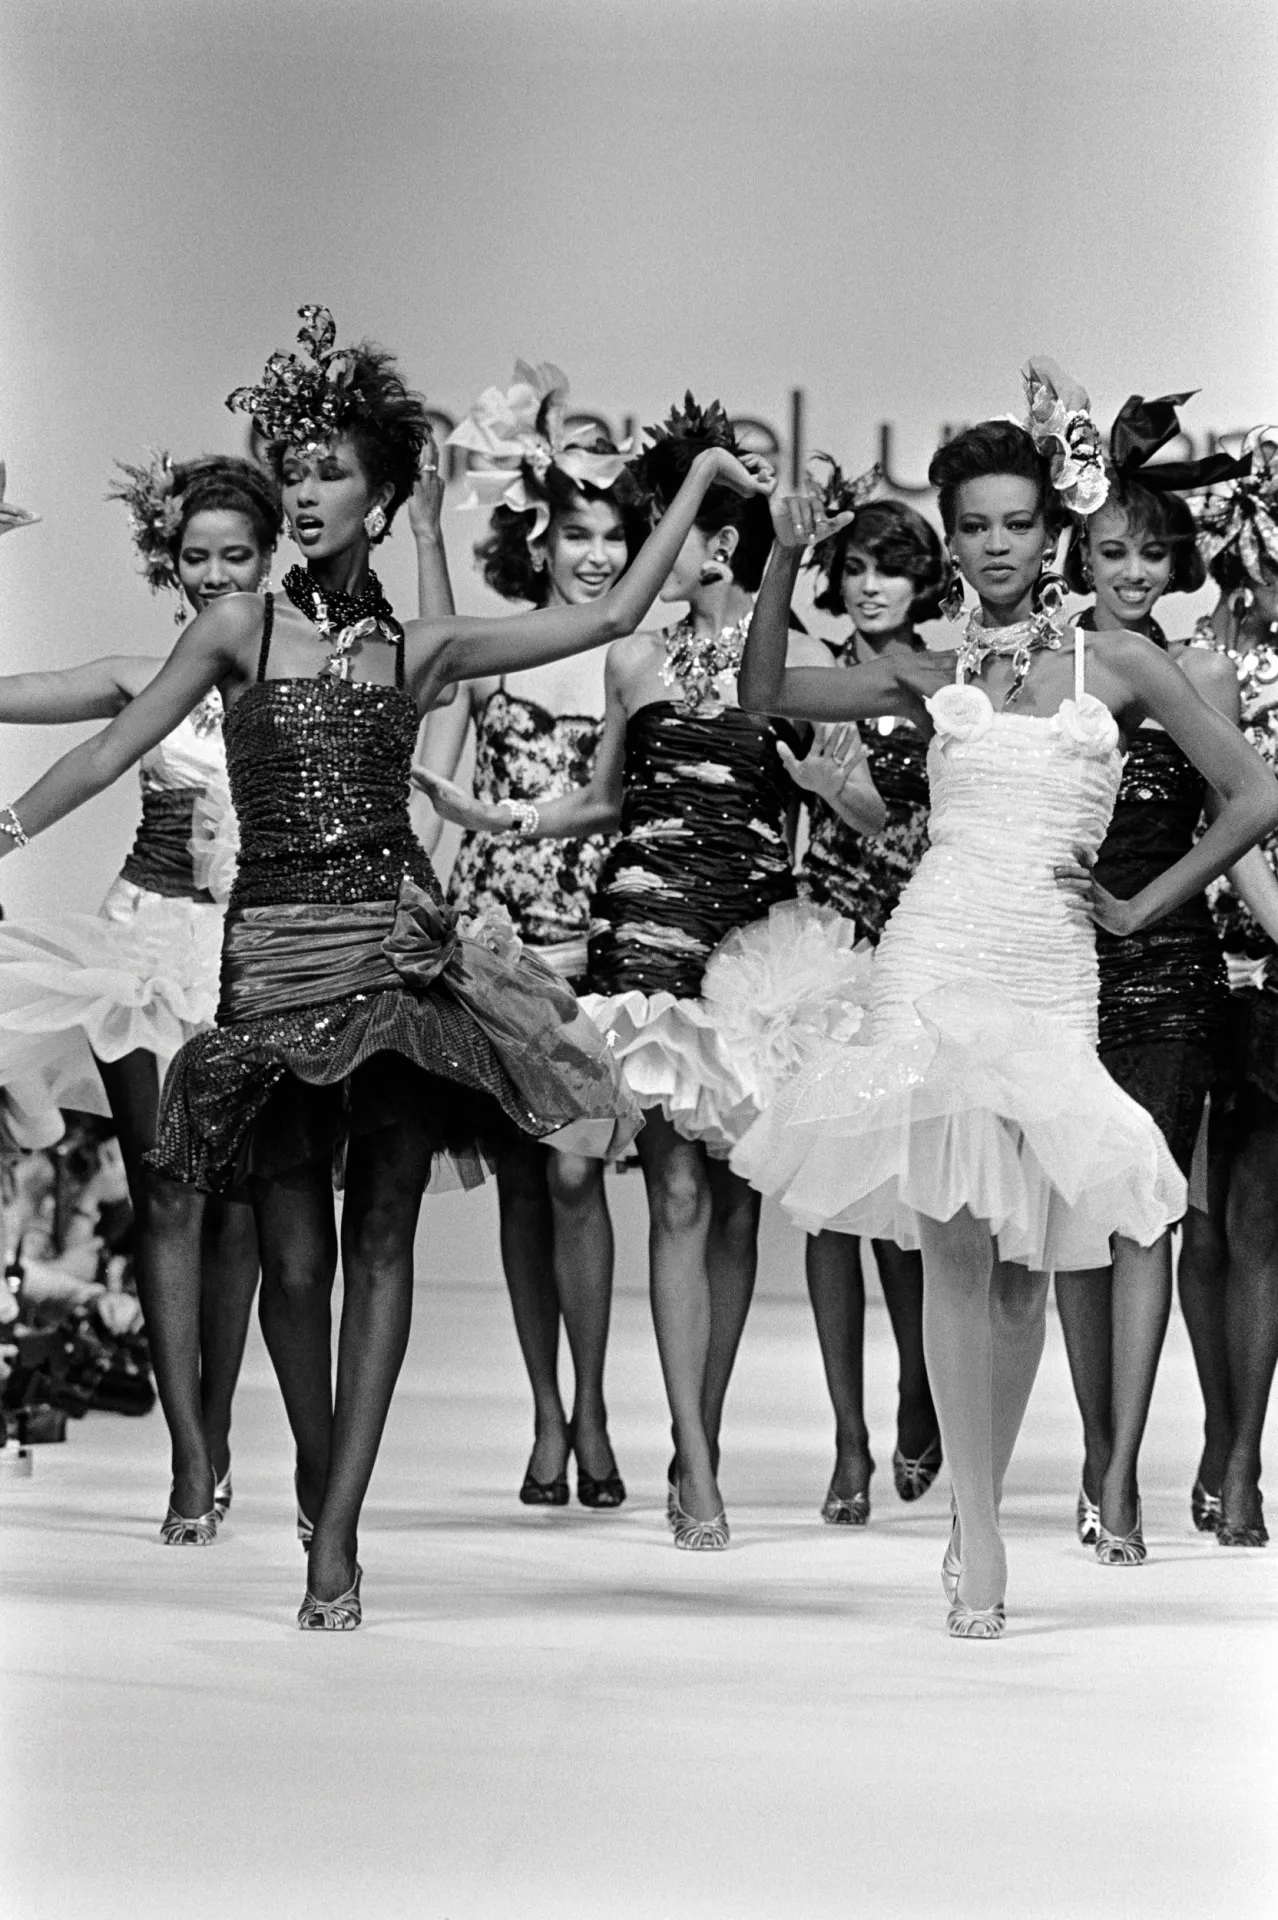
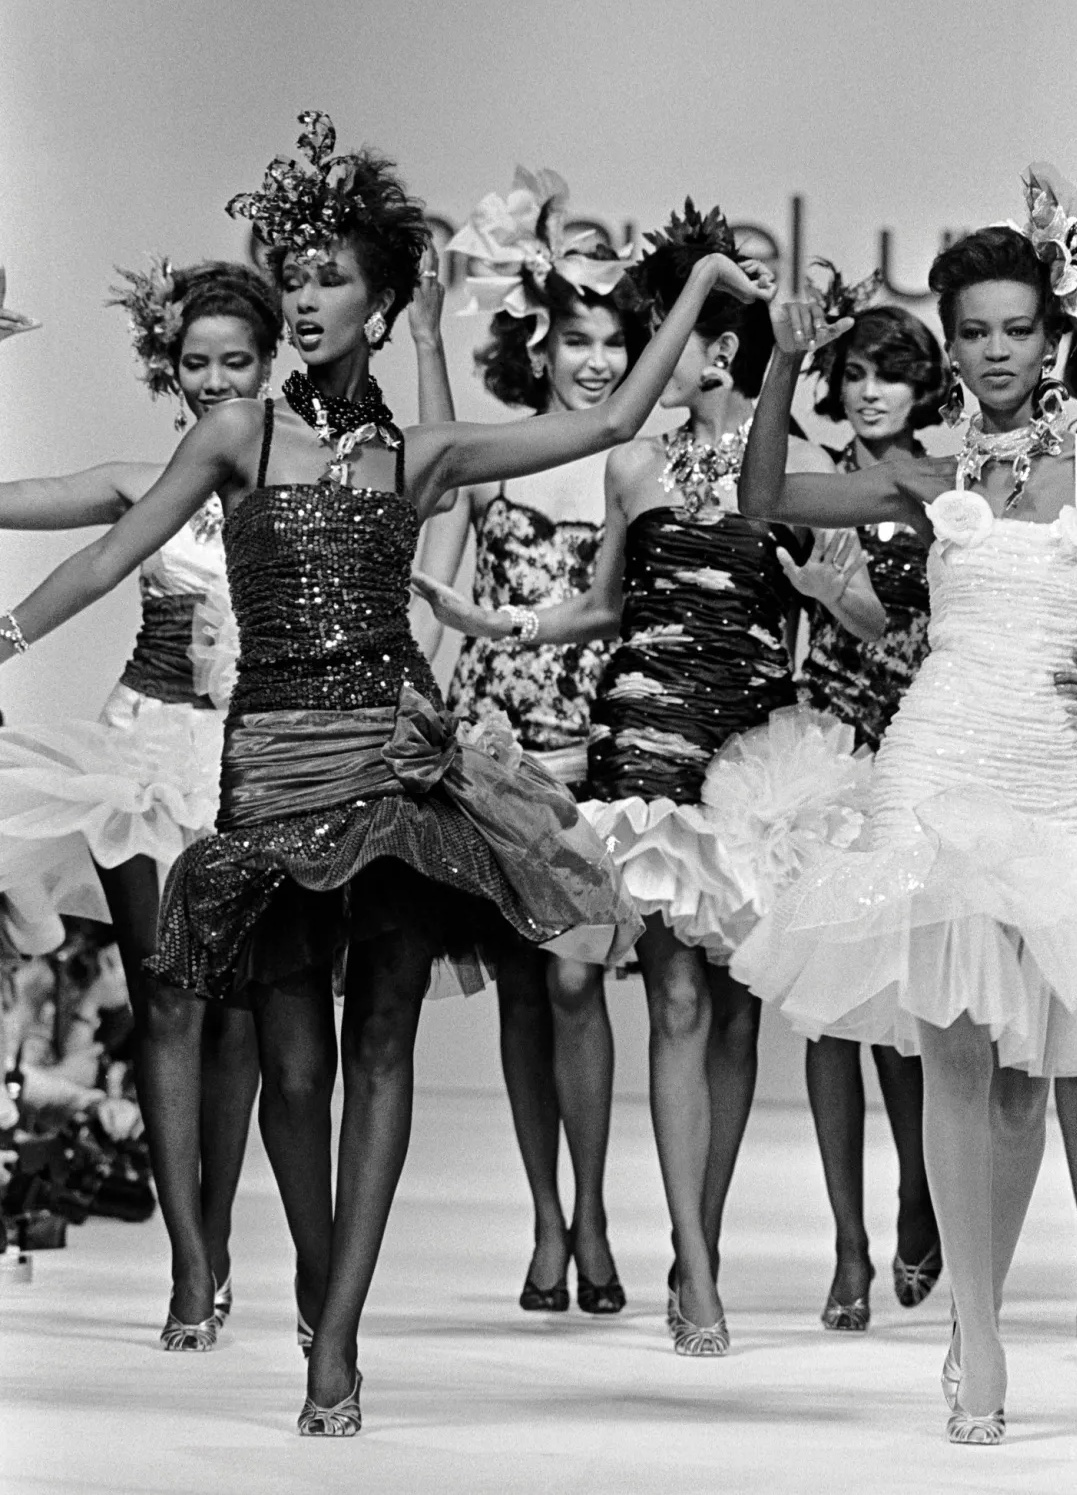
webpage converted

diff --git a/ProblemSets/ALAB320/alab320-02/src/FashionBlog.js b/ProblemSets/ALAB320/alab320-02/src/FashionBlog.js
@@ -26,15 +26,24 @@ function FashionBlog() {
 
       {/* Main Content */}
       <main className="main">
-        <div className="article-dates article-date-1">11/11/20</div>
-        <div className="article-titles article-title-1">On the Street in Brooklyn</div>
-        <img className="article-images image1" src={sartre1} alt="Brooklyn street fashion" />
-        <article className="articles article1">Quisque a auctor neque. Aliquam erat volutpat. Praesent tristique malesuada leo at commodo. Nullam ut accumsan ligula, et hendrerit ex. Fusce est massa, placerat quis elit sed, varius gravida tellus. Mauris a purus lobortis, posuere massa ut, blandit tellus. In accumsan nisi vitae iaculis ultrices. In lectus libero, scelerisque vitae interdum placerat, tempor ac nunc. Mauris cursus urna dolor, ac porta nibh interdum nec. Aliquam placerat erat vitae luctus sollicitudin.</article>
+        <section classname="article-container">
+          <div className="article-dates article-date-1">11/11/20</div>
+          <div className="article-titles article-title-1">On the Street in Brooklyn</div>
+          <img className="article-images image1" src={sartre1} alt="Brooklyn street fashion" />
+          <article className="articles article1">
+            <p className="article-texts"> Quisque a auctor neque. Aliquam erat volutpat. Praesent tristique malesuada leo at commodo. Nullam ut accumsan ligula, et hendrerit ex. Fusce est massa, placerat quis elit sed, varius gravida tellus. Mauris a purus lobortis, posuere massa ut, blandit tellus. In accumsan nisi vitae iaculis ultrices. In lectus libero, scelerisque vitae interdum placerat, tempor ac nunc. Mauris cursus urna dolor, ac porta nibh interdum nec. Aliquam placerat erat vitae luctus sollicitudin.
+            </p> </article>
+        </section>
 
-        <div className="article-dates article-date-1">11/12/20</div>
-        <div className="article-titles article-title-1">Vintage in Vogue</div>
-        <img className="article-images image1" src={sartre2} alt="Vintage fashion" />
-        <article className="articles article1">Nam eleifend urna libero, vel aliquam lacus dictum in. Mauris bibendum convallis libero, in consequat sapien dignissim a. Nunc faucibus magna at lorem porttitor, vel elementum velit sagittis. Donec porttitor et mi non placerat. Donec rutrum quis ex convallis venenatis. Aliquam in hendrerit odio. Aenean dolor enim, laoreet quis ipsum ac, imperdiet blandit lectus. Vestibulum cursus mauris id nulla semper scelerisque. Fusce metus nisi, vehicula in tristique quis, molestie quis sem. Morbi ut finibus ipsum, ac finibus sapien.</article>
+
+        <section classname="article-container">
+          <div className="article-dates article-date-1">11/12/20</div>
+          <div className="article-titles article-title-1">Vintage in Vogue</div>
+          <img className="article-images image1" src={sartre2} alt="Vintage fashion" />
+          <article className="articles article1">
+            <p className="article-texts"> Nam eleifend urna libero, vel aliquam lacus dictum in. Mauris bibendum convallis libero, in consequat sapien dignissim a. Nunc faucibus magna at lorem porttitor, vel elementum velit sagittis. Donec porttitor et mi non placerat. Donec rutrum quis ex convallis venenatis. Aliquam in hendrerit odio. Aenean dolor enim, laoreet quis ipsum ac, imperdiet blandit lectus. Vestibulum cursus mauris id nulla semper scelerisque. Fusce metus nisi, vehicula in tristique quis, molestie quis sem. Morbi ut finibus ipsum, ac finibus sapien.</p>
+          </article>
+        </section>
       </main>
 
       {/* Footer */}

diff --git a/ProblemSets/ALAB320/alab320-02/src/FashionBlog.css b/ProblemSets/ALAB320/alab320-02/src/FashionBlog.css
@@ -1,142 +1,135 @@
+/* Base Styles */
 body {
-  margin: 0 auto;
-  max-width: 1000px;
   font-family: sans-serif;
-
+  color: #333;
+  max-width: 1000px;
+  min-height: 100%;
+  margin: 0 auto;
+  padding: 0 20px;
 }
 
 .page-container {
-  margin: 0 auto;
-  width: 800px;
-  height: 600px;
   display: flex;
   flex-direction: column;
+  min-height: 100vh;
   border: 5px solid lightgray;
 }
 
-div {
-  margin: 0;
-}
-
+/* Header */
 .header {
-  margin: 2px;
-  width: auto;
-  height: 144px;
+  text-align: center;
   padding: 1rem 2rem;
-  border: 1px solid blue;
+  border-bottom: 1px solid lightgray;
 }
 
 .title {
-  margin: 2px;
-  width: auto;
+  margin-bottom: 0.5rem;
+  letter-spacing: 2px;
+  font-size: 5rem;
   color: tomato;
 }
 
 .subtitle {
-  margin: 2px;
-  width: auto;
+  font-size: 2.5rem;
+  color: gray;
+  font-weight: normal;
 }
 
+/* NavBar */
 .navBar {
-  margin: 2px;
-  width: auto;
+  margin: 1.5rem 0;
 }
 
 .navList {
-  margin: 0;
+  justify-content: center;
+  list-style: none;
   padding: 0;
-  list-style-type: none;
+  margin: 0;
   display: flex;
   justify-content: space-around;
-  align-items: center;
 }
 
 .list-items {
-  margin: 2px;
-  color: lightgray;
+  margin: 0 1rem;
 }
 
 .links {
-  font-style: bold;
+  text-decoration: none;
+  color: gray;
+  font-size: 1.1rem;
+  transition: color 0.3s;
 }
 
+/* Main Content */
 .main {
-  margin: 2px;
-  width: auto;
-  height: 228px;
+  flex: 1;
   padding: 1rem 2rem;
-  border: 1px solid orange;
 }
 
-.article-dates {
-  margin: 2px;
-  width: auto;
-}
-
-.article-titles {
-  margin: 2px;
-  width: auto;
-}
-
-.article-images {
-  margin: 2px;
-  width: 100%;
+.article-container {
+  margin: 100px 0;
 }
 
 .articles {
-  margin: 4rem .5rem;
-  width: auto;
+  margin-bottom: 3rem;
+  max-width: 800px;
+  margin-left: auto;
+  margin-right: auto;
 }
 
+.article-dates {
+  color: darkgray;
+  font-size: 2rem;
+  margin-bottom: 0.5rem;
+}
+
+.article-titles {
+  font-size: 3rem;
+  margin-bottom: 1rem;
+  color: black;
+}
+
+.article-images {
+  width: 500px;
+  height: 350px;
+  margin-bottom: 1.5rem;
+  border-radius: 4px;
+}
+
+.article-texts {
+  margin-bottom: .5rem;
+  font-size: 1.1rem;
+  line-height: 1.7;
+  text-align: left;
+}
+
+.article-continue {
+  text-align: right;
+  color: gray;
+  font-style: italic;
+}
+
+/* Footer Styles */
 .footer {
-  width: 800px;
-  height: 228px;
+  background-color: whitesmoke;
   padding: 1rem 2rem;
-  border: 1px solid fuchsia;
+  text-align: center;
+  border-top: 1px solid whitesmoke;
 }
 
-/* .left-top-box {
-  height: 85px;
-  display: flex;
-  flex-direction: column;
+.footer-content {
+  max-width: 800px;
+  margin: 0 auto;
 }
 
-.left-top-box1 {
-  margin: 2px;
-  width: 395px;
-  height: 42px;
-  border: 1px solid red;
+.footer-link {
+  margin: 0 0.5rem;
+  color: gray;
+  text-decoration: none;
 }
 
-.left-top-box2 {
-  margin: 2px;
-  width: 395px;
-  height: 42px;
-  border: 1px solid blue;
+.copyright {
+  margin-top: 1rem;
+  color: gray;
+  font-size: 0.9rem;
 }
-
-.box {
-  margin: 2px;
-  height: 85px;
-  border: 1px solid fuchsia
-}
-
-.right-column {
-  margin: 2px;
-  width: 400px;
-  display: flex;
-  flex-direction: column;
-}
-
-.right-top-box {
-  margin: 2px;
-  height: 42px;
-  border: 1px solid steelblue;
-  margin: 2px;
-}
-
-.right-bottom-box {
-  margin: 2px;
-  height: 552px;
-  border: 1px solid gray;
-} */
